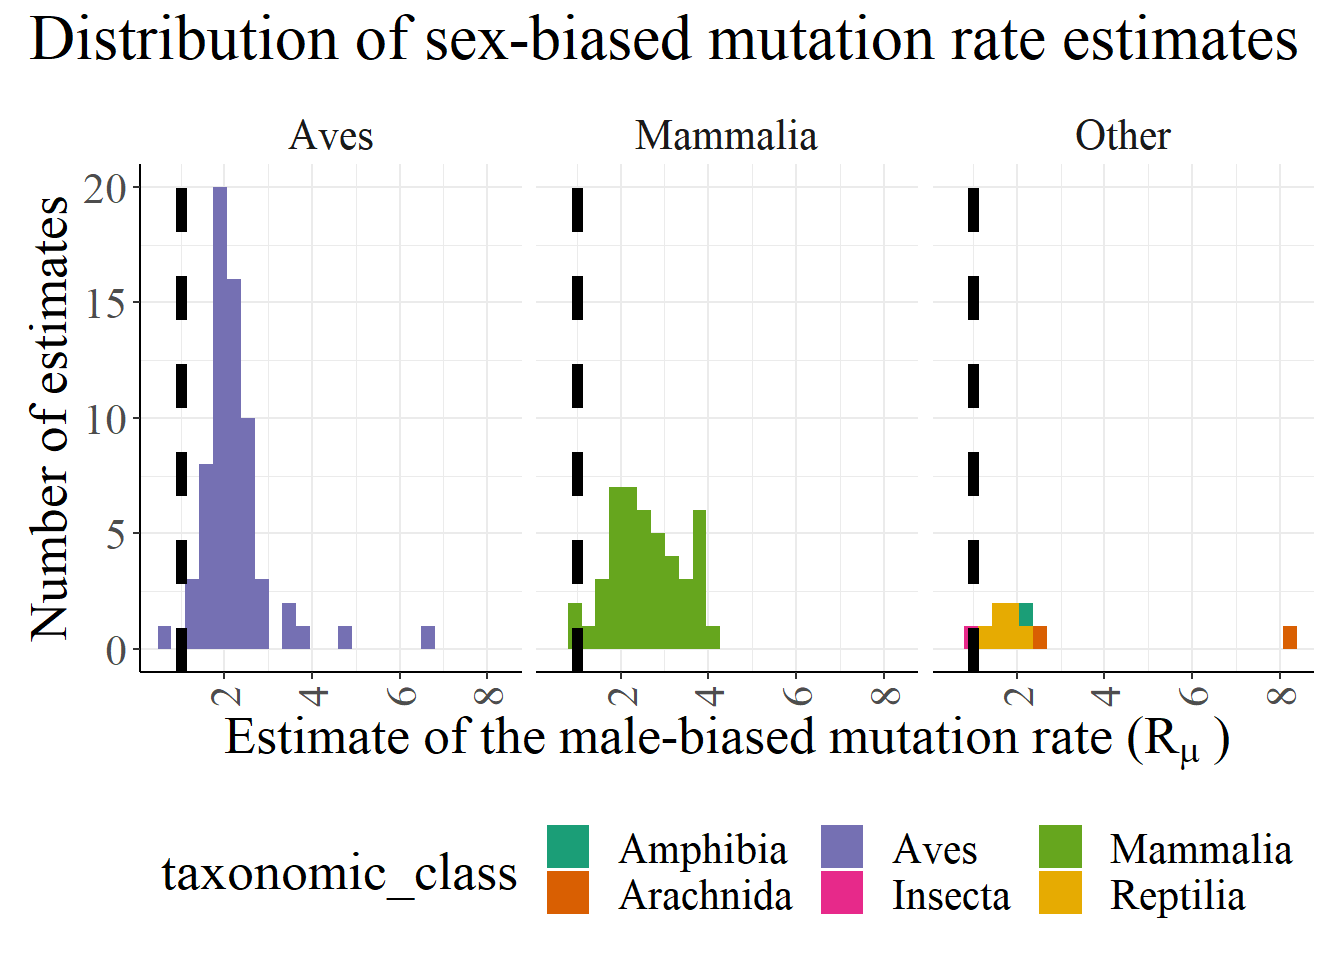
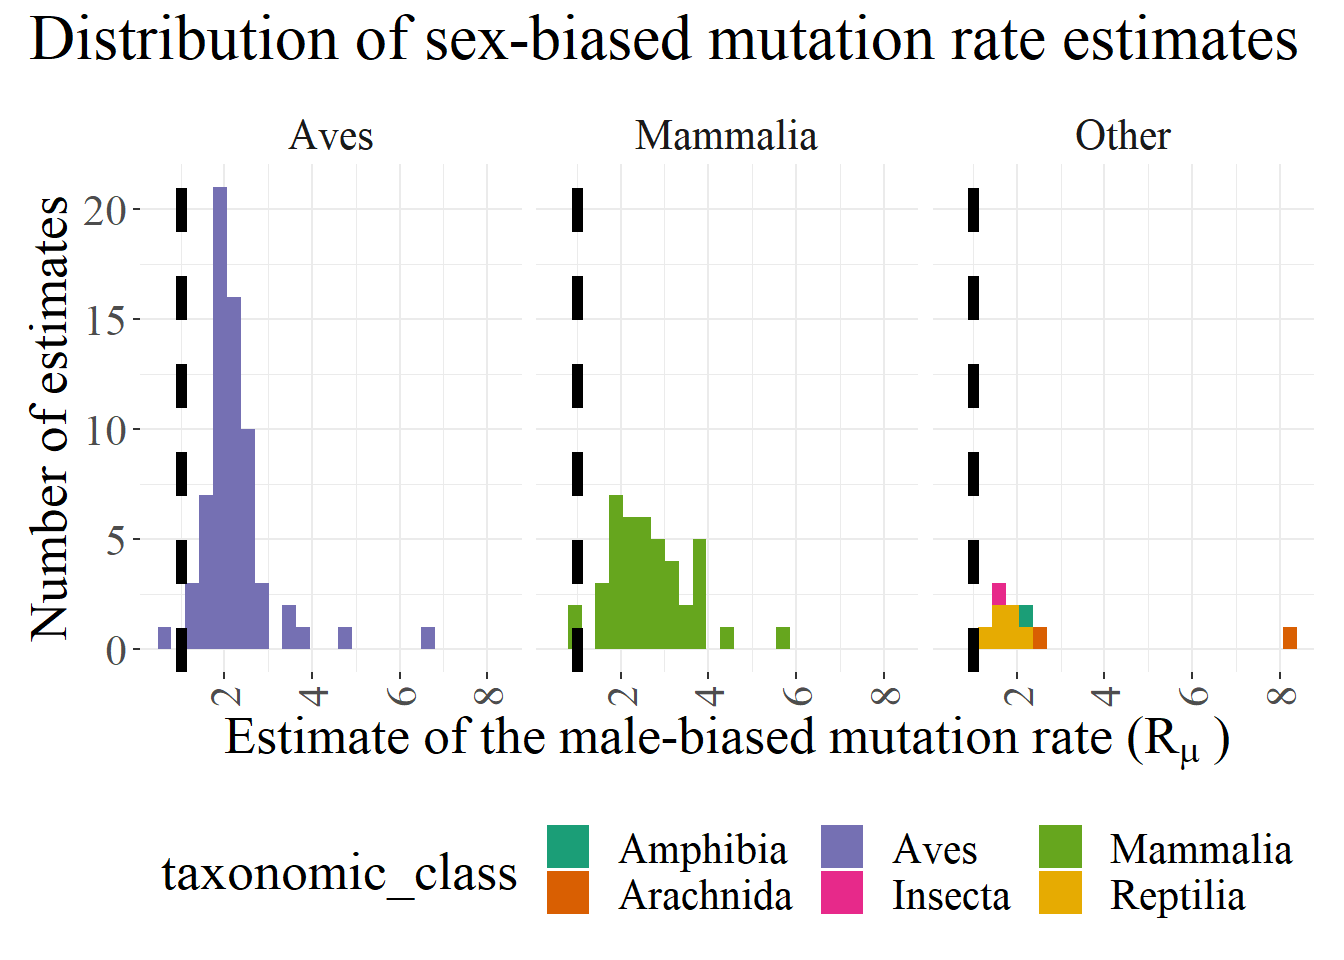
Build site.

diff --git a/docs/figure_1.html b/docs/figure_1.html
@@ -387,7 +387,7 @@ div.tocify {
 <div class="tab-content">
 <div id="summary" class="tab-pane fade in active">
 <p>
-<strong>Last updated:</strong> 2022-02-11
+<strong>Last updated:</strong> 2022-04-21
 </p>
 <p>
 <strong>Checks:</strong> <span class="glyphicon glyphicon-ok text-success" aria-hidden="true"></span> 7 <span class="glyphicon glyphicon-exclamation-sign text-danger" aria-hidden="true"></span> 0
@@ -478,25 +478,26 @@ This reproducible <a href="http://rmarkdown.rstudio.com">R Markdown</a> analysis
 <div class="panel panel-default">
 <div class="panel-heading">
 <p class="panel-title">
-<a data-toggle="collapse" data-parent="#workflowr-checks" href="#strongRepositoryversionstrongahrefhttpsgithubcomIJbeasleyunguardedxjournalclubtree8d4a42818e0faa247db3ff7207489329b5747a1btargetblank8d4a428a"> <span class="glyphicon glyphicon-ok text-success" aria-hidden="true"></span> <strong>Repository version:</strong> <a href="https://github.com/IJbeasley/unguarded_x_journal_club/tree/8d4a42818e0faa247db3ff7207489329b5747a1b" target="_blank">8d4a428</a> </a>
+<a data-toggle="collapse" data-parent="#workflowr-checks" href="#strongRepositoryversionstrongahrefhttpsgithubcomIJbeasleyunguardedxjournalclubtree5abf8c35bb2ae6efa7a2207ef05775777f7af616targetblank5abf8c3a"> <span class="glyphicon glyphicon-ok text-success" aria-hidden="true"></span> <strong>Repository version:</strong> <a href="https://github.com/IJbeasley/unguarded_x_journal_club/tree/5abf8c35bb2ae6efa7a2207ef05775777f7af616" target="_blank">5abf8c3</a> </a>
 </p>
 </div>
[2 lines of base64/hex data omitted]
 <div class="panel-body">
 <p>
 Great! You are using Git for version control. Tracking code development and connecting the code version to the results is critical for reproducibility.
 </p>
 <p>
-The results in this page were generated with repository version <a href="https://github.com/IJbeasley/unguarded_x_journal_club/tree/8d4a42818e0faa247db3ff7207489329b5747a1b" target="_blank">8d4a428</a>. See the <em>Past versions</em> tab to see a history of the changes made to the R Markdown and HTML files.
+The results in this page were generated with repository version <a href="https://github.com/IJbeasley/unguarded_x_journal_club/tree/5abf8c35bb2ae6efa7a2207ef05775777f7af616" target="_blank">5abf8c3</a>. See the <em>Past versions</em> tab to see a history of the changes made to the R Markdown and HTML files.
 </p>
 <p>
 Note that you need to be careful to ensure that all relevant files for the analysis have been committed to Git prior to generating the results (you can use <code>wflow_publish</code> or <code>wflow_git_commit</code>). workflowr only checks the R Markdown file, but you know if there are other scripts or data files that it depends on. Below is the status of the Git repository when the results were generated:
 </p>
 <pre><code>
 Untracked files:
-    Untracked:  Figure_1.pdf
-    Untracked:  SupplementaryFile3_Indonesian_eQTL_nominal.tsv
     Untracked:  figures/
+
+Unstaged changes:
+    Modified:   analysis/summary_sex_bias_mutation.Rmd
 
 </code></pre>
 <p>
@@ -535,6 +536,40 @@ Message
 </tr>
 </thead>
 <tbody>
+<tr>
+<td>
+Rmd
+</td>
+<td>
+<a href="https://github.com/IJbeasley/unguarded_x_journal_club/blob/5abf8c35bb2ae6efa7a2207ef05775777f7af616/analysis/figure_1.Rmd" target="_blank">5abf8c3</a>
+</td>
+<td>
+Isobel Beasley
+</td>
+<td>
+2022-04-21
+</td>
+<td>
+Update Figure 1 for using dataset from data folder rather than google sheets
+</td>
+</tr>
+<tr>
+<td>
+html
+</td>
+<td>
+<a href="https://rawcdn.githack.com/IJbeasley/unguarded_x_journal_club/2907b437eaf68ecfeb99216216124f1c3bbe25db/docs/figure_1.html" target="_blank">2907b43</a>
+</td>
+<td>
+Isobel Beasley
+</td>
+<td>
+2022-02-11
+</td>
+<td>
+Build site.
+</td>
+</tr>
 <tr>
 <td>
 Rmd
@@ -607,23 +642,20 @@ font_import()</code></pre>
 Continue? [y/n] </code></pre>
 <pre class="r"><code>loadfonts(device=&quot;win&quot;)  
 
-# only look at public sheets - so no authentication is needed
-googlesheets4::gs4_deauth()
-
 # read in sex bias mutation data.frame
-sex_bias_mut_df = googlesheets4::read_sheet(&quot;https://docs.google.com/spreadsheets/d/10ZVgeGlDpEnPG-4zLLrSBQjF7p2_9hzzIMPuIRuvogg/edit#gid=537547888&quot;, range = &quot;Sex-bias estimates&quot;)
+sex_bias_mut_df = readxl::read_excel(&quot;data/Sex_bias_mutation_rate.xlsx&quot;, sheet = &quot;Sex-bias estimates&quot;)
 
 # what does the sex bias in mutation rate estimate look like: 
 head(sex_bias_mut_df) %&gt;% reactable()</code></pre>
 <div id="htmlwidget-0bc58612b86b389075fb" class="reactable html-widget" style="width:auto;height:auto;"></div>
-<script type="application/json" data-for="htmlwidget-0bc58612b86b389075fb">{"x":{"tag":{"name":"Reactable","attribs":{"data":{"authors":["Törmä,  Burny, and Schlötterer","Künstner et al.","Künstner et al.","Wilson Sayres et al.","Manuel, Wu and Przeworski","Chang et al."],"year":[2020,2010,2010,2011,2022,1994],"taxonomic_class":["Insecta","Aves","Aves","Mammalia","Mammalia","Mammalia"],"animal_name":["Fruit fly","Anna's hummingbird","Barbary dove","Hedgehog","Cat","Rodents (Mouse;Rat)"],"scientific_name":["Drosophila Melanogaster","Calypte anna","Streptopelia risoria","Erinaceus europaeus","Felis catus","Mus musculus;Rattus norvegicus"],"alpha_point_estimate":[-0.48,0.0283,0.5,0.97,0.97667172,1],"alpha_estimate_lower":[-0.53,"NA","NA",0.62,0.757043867,1.8],"alpha_estimate_upper":[-0.44,"NA","NA",1.41,1.218085898,3.2],"method_used_to_calculate_alpha":["Evolutionary method (Miyata et al. 1987; comparing X/Autosomes)","Evolutionary method (Miyata et al. 1987; comparing Z/Autosomes)","Evolutionary method (Miyata et al. 1987; comparing Z/Autosomes)","Evolutionary method (Miyata et al. 1987; comparing X/Autosomes)","Evolutionary method (Miyata et al. 1987; comparing X/Autosomes)","Evolutionary method (Miyata et al. 1987, comparing X/Y)"],"upper_lower_meaning":["Lower and upper estimates are the 95% confidence interval for alpha","No confidence interval provided in article","No confidence interval provided in article","Lower and upper estimates are the 95% confidence interval for alpha","Lower and upper estimates are the 95% confidence interval for alpha","Lower and upper estimates are the 95% confidence interval for alpha"],"loci_type_for_estimate":[null,"Synonymous site","Synonymous site","Non-coding regions","Non-coding regions","Intron"],"number_of_loci_for_estimate":["Whole genome","Whole genome","Whole genome","Whole genome","Whole genome excluding pseudo-autosomal regions and repeative regions","Single gene pair (1 intron)"],"mutation_type":["Indel",null,null,null,"Nucleotide substitution","Nucleotide substitutions"],"other_notes":["Measured in mismatch-repair deficient D.melanogaster, impossible ratio as X/A for indels is >1.",null,null,null,null,"Gene pair: ZFY/ZFX"]},"columns":[{"accessor":"authors","name":"authors","type":"character"},{"accessor":"year","name":"year","type":"numeric"},{"accessor":"taxonomic_class","name":"taxonomic_class","type":"character"},{"accessor":"animal_name","name":"animal_name","type":"character"},{"accessor":"scientific_name","name":"scientific_name","type":"character"},{"accessor":"alpha_point_estimate","name":"alpha_point_estimate","type":"numeric"},{"accessor":"alpha_estimate_lower","name":"alpha_estimate_lower","type":"numeric"},{"accessor":"alpha_estimate_upper","name":"alpha_estimate_upper","type":"numeric"},{"accessor":"method_used_to_calculate_alpha","name":"method_used_to_calculate_alpha","type":"character"},{"accessor":"upper_lower_meaning","name":"upper_lower_meaning","type":"character"},{"accessor":"loci_type_for_estimate","name":"loci_type_for_estimate","type":"character"},{"accessor":"number_of_loci_for_estimate","name":"number_of_loci_for_estimate","type":"character"},{"accessor":"mutation_type","name":"mutation_type","type":"character"},{"accessor":"other_notes","name":"other_notes","type":"character"}],"defaultPageSize":10,"paginationType":"numbers","showPageInfo":true,"minRows":1,"dataKey":"377f378cfc4dfebb6152e768ba07592c","key":"377f378cfc4dfebb6152e768ba07592c"},"children":[]},"class":"reactR_markup"},"evals":[],"jsHooks":[]}</script>
+<script type="application/json" data-for="htmlwidget-0bc58612b86b389075fb">{"x":{"tag":{"name":"Reactable","attribs":{"data":{"authors":["Shimmin, Chang and Li","Chang et al.","Chang and Li","Chang, Hewett-Emmett and Li","Ellegren and Fridolfsson","Huang et al."],"year":[1993,1994,1995,1996,1997,1997],"taxonomic_class":["Mammalia","Mammalia","Mammalia","Mammalia","Aves","Mammalia"],"animal_name":["Primates (Human, Orangutan, Baboons, Squirrel Monkey)","Rodents (Mouse;Rat)","Rodents (Mouse;Rat)","Primates (Human, Orangutan, Baboons, Squirrel Monkey)","Birds (Collared flycatcher;Yellowhammer)","Primates (Human, Orangutan, Squirrel Monkey)"],"scientific_name":["Homo sapiens;Pongo pygmaeus;Papio\ncynocephalus;Saimiri boliviensis","Mus musculus;Rattus norvegicus","Mus musculus;Rattus norvegicus","Homo sapiens;Pongo pygmaeus;Papio\ncynocephalus;Saimiri boliviensis","Ficedula albicollis;Emberiza citrinella","Homo sapiens;Pongo pygmaeus;Saimiri boliviensis"],"alpha_point_estimate":[6.26,1,2,4.2,3.9,5.14],"alpha_estimate_lower":[2.63,1.8,1,2.2,1.12,2.42],"alpha_estimate_upper":[32.4,3.2,3.9,10,6.68,16.6],"method_used_to_calculate_alpha":["Evolutionary method (Miyata et al. 1987, comparing X/Y)","Evolutionary method (Miyata et al. 1987, comparing X/Y)","Evolutionary method (Miyata et al. 1987, comparing X/Y)","Evolutionary method (Miyata et al. 1987, comparing X/Y)","Evolutionary method (Miyata et al. 1987; comparing Z/W)","Evolutionary method (Miyata et al. 1987, comparing X/Y)"],"upper_lower_meaning":["Lower and upper estimates are the 95% confidence interval for alpha","Lower and upper estimates are the 95% confidence interval for alpha","Lower and upper estimates are the 95% confidence interval for alpha","Lower and upper estimates are the 95% confidence interval for alpha","Lower and upper estimates are the 95% confidence interval for alpha","Lower and upper estimates are the 95% confidence interval for alpha"],"loci_type_for_estimate":["Intron","Intron","Intron","Intron","Exon","Intron"],"number_of_loci_for_estimate":["Single gene pair","Single gene pair (1 intron)","Single gene pair (3 intron)","Single gene pair","Single gene pair","Single gene pair"],"mutation_type":["Gene pair: ZFY/ZFX","Gene pair: ZFY/ZFX","Gene pair: Ube 1X/Ube 1Y","Gene pair: SMCY/SMCX","Gene pair: CHDZ / CHDW","Gene pair: AMGX/AMGY"],"other_notes":[null,null,"Used both non-synmous and synomous substitions, from the article: \"a similar estimate is obtained using synonymous substitutions (~ = 2.37), although the 95% confidence interval is larger (-0.21 to 5.10)\"",null,null,null]},"columns":[{"accessor":"authors","name":"authors","type":"character"},{"accessor":"year","name":"year","type":"numeric"},{"accessor":"taxonomic_class","name":"taxonomic_class","type":"character"},{"accessor":"animal_name","name":"animal_name","type":"character"},{"accessor":"scientific_name","name":"scientific_name","type":"character"},{"accessor":"alpha_point_estimate","name":"alpha_point_estimate","type":"numeric"},{"accessor":"alpha_estimate_lower","name":"alpha_estimate_lower","type":"numeric"},{"accessor":"alpha_estimate_upper","name":"alpha_estimate_upper","type":"numeric"},{"accessor":"method_used_to_calculate_alpha","name":"method_used_to_calculate_alpha","type":"character"},{"accessor":"upper_lower_meaning","name":"upper_lower_meaning","type":"character"},{"accessor":"loci_type_for_estimate","name":"loci_type_for_estimate","type":"character"},{"accessor":"number_of_loci_for_estimate","name":"number_of_loci_for_estimate","type":"character"},{"accessor":"mutation_type","name":"mutation_type","type":"character"},{"accessor":"other_notes","name":"other_notes","type":"character"}],"defaultPageSize":10,"paginationType":"numbers","showPageInfo":true,"minRows":1,"dataKey":"9def39596755b1293e3c6eb03f34c254","key":"9def39596755b1293e3c6eb03f34c254"},"children":[]},"class":"reactR_markup"},"evals":[],"jsHooks":[]}</script>
 <pre class="r"><code># Set up custom theme for ggplots
 custom_theme &lt;-
   list(
     theme_bw() +
       theme(
         panel.border = element_blank(),
-        axis.line = element_line(),
+        #axis.line = element_line(),
         text = element_text(family=&quot;serif&quot;, size=20),
         legend.position = &quot;bottom&quot;,
         strip.background = element_blank(),
@@ -631,16 +663,23 @@ custom_theme &lt;-
       )
   )</code></pre>
 </div>
-<div id="figure-1-for-the-unguarded-x-paper" class="section level1">
-<h1>Figure 1 for the unguarded X paper</h1>
-<div id="suggested-steps-1122022" class="section level2">
-<h2>Suggested steps (11/2/2022)</h2>
+<div id="figure-1-for-the-unguarded-x-paper" class="section level2">
+<h2>Figure 1 for the unguarded X paper</h2>
+<div id="suggested-steps-1122022" class="section level3">
+<h3>Suggested steps (11/2/2022)</h3>
+</div>
 <div id="data-preparation" class="section level3">
 <h3>Data preparation</h3>
 <pre class="r"><code># Filter out that wildly high / unrealistic estimate for human male-bias from Wilson Sayres et al. 2011
 
 filtered_sex_bias_mut_df = sex_bias_mut_df %&gt;% 
                            filter(alpha_point_estimate&lt;20)
+
+# Filter out that negative value - for the male bias - 
+# from Drosophilla using Indels Törmä,  Burny, and Schlöttere et al. 2020
+
+filtered_sex_bias_mut_df = sex_bias_mut_df %&gt;% 
+                           filter(alpha_point_estimate&gt;0)
 
 
 # For the purposes of the figure - only include estimates for a single species at a time: 
@@ -683,56 +722,37 @@ filtered_sex_bias_mut_df = filtered_sex_bias_mut_df  %&gt;%
   theme = theme(text = element_text(family=&quot;serif&quot;, size=20))
 )</code></pre>
 <p><img src="figure/figure_1.Rmd/plot_figure_1-1.png" width="672" style="display: block; margin: auto;" /></p>
-<pre class="r"><code>ggsave(&quot;figures/figure_1.png&quot;, width = 180, height = 120, units = &quot;mm&quot;)</code></pre>
+<div id="number-of-displayed-estimates-per-group" class="section level3">
+<h3>Number of displayed estimates per group</h3>
+<pre class="r"><code>filtered_sex_bias_mut_df  %&gt;% 
+  group_by(taxonomic_class) %&gt;% 
+  summarise(n = n())</code></pre>
+<pre><code># A tibble: 6 x 2
+  taxonomic_class     n
+  &lt;chr&gt;           &lt;int&gt;
+1 Amphibia            1
+2 Arachnida           2
+3 Aves               66
+4 Insecta             1
+5 Mammalia           42
+6 Reptilia            6</code></pre>
+<pre class="r"><code>filtered_sex_bias_mut_df  %&gt;% 
+  mutate(taxa_group = ifelse(taxonomic_class == &quot;Aves&quot; | taxonomic_class == &quot;Mammalia&quot;,
+                            taxonomic_class, &quot;Other&quot;)) %&gt;% 
+  group_by(taxa_group) %&gt;% 
+  summarise(n = n())</code></pre>
+<pre><code># A tibble: 3 x 2
+  taxa_group     n
+  &lt;chr&gt;      &lt;int&gt;
+1 Aves          66
+2 Mammalia      42
+3 Other         10</code></pre>
 </div>
-<div id="old-version-of-the-figure-for-the-paper-4022022" class="section level2">
-<h2>Old version of the figure for the paper (4/02/2022)</h2>
-<pre class="r"><code>## By Taxonomic Class
+<div id="saving-figures" class="section level3">
+<h3>Saving figures</h3>
+<pre class="r"><code>ggsave(&quot;figures/figure_1.png&quot;, width = 180, height = 120, units = &quot;mm&quot;)
 
-df= sex_bias_mut_df %&gt;% 
-  #filter(alpha_point_estimate&lt;20) %&gt;% 
-  ggplot(aes(x=alpha_point_estimate)) + 
-  geom_histogram(bins = 25) + 
-  labs(title = &quot;Distribution of sex-biased mutation rate estimates&quot;,
-        x = &quot;Point estimate of the male-biased mutation rate (alpha)&quot;,
-       y= &quot;Number of estimates&quot;) + 
-  custom_theme + 
-  geom_vline(xintercept = 1, col = &quot;red&quot;, linetype = 2, size = 2) + 
-  facet_wrap(~taxonomic_class)
-
-n_by_taxa = sex_bias_mut_df %&gt;% 
-            group_by(taxonomic_class) %&gt;% 
-            summarise(n = n()) 
-
-
-df_2 = sex_bias_mut_df %&gt;%   
-  select(authors,year,scientific_name) %&gt;% 
-  distinct() %&gt;% 
-  ggplot(aes(x=year)) + 
-  geom_histogram() + 
-  custom_theme  + 
-  labs(x = &quot;Year published*&quot;,
-       y = &quot;Number of estimates&quot;,
-       title = &quot;How many unique estimates per year?&quot;)
-
-
-df_3 = sex_bias_mut_df %&gt;%   
-  select(authors,year) %&gt;% 
-  distinct() %&gt;% 
-  ggplot(aes(x=year)) + 
-  geom_histogram() + 
-  custom_theme  + 
-  labs(x = &quot;Year published*&quot;,
-       y = &quot;Number of studies&quot;,
-       title = &quot;What year were our collated studies published?&quot;)
-
-
-library(patchwork)
-
-(df) / (df_2 + df_3)</code></pre>
-<pre><code>`stat_bin()` using `bins = 30`. Pick better value with `binwidth`.
-`stat_bin()` using `bins = 30`. Pick better value with `binwidth`.</code></pre>
-<p><img src="figure/figure_1.Rmd/old_version_of_figure_for_the_paper-1.png" width="1920" style="display: block; margin: auto;" /></p>
+ggsave(&quot;figures/figure_2.pdf&quot;, width = 180, height = 120, units = &quot;mm&quot;)</code></pre>
 <br>
 <p>
 <button type="button" class="btn btn-default btn-workflowr btn-workflowr-sessioninfo" data-toggle="collapse" data-target="#workflowr-sessioninfo" style="display: block;">
@@ -760,28 +780,21 @@ other attached packages:
 [5] reactable_0.2.3    dplyr_1.0.6        ggplot2_3.3.5      workflowr_1.6.2   
 
 loaded via a namespace (and not attached):
- [1] Rcpp_1.0.6          assertthat_0.2.1    rprojroot_2.0.2    
- [4] digest_0.6.27       utf8_1.2.1          R6_2.5.0           
- [7] cellranger_1.1.0    reactR_0.4.4        evaluate_0.14      
-[10] httr_1.4.2          highr_0.9           pillar_1.6.1       
-[13] rlang_0.4.11        googlesheets4_1.0.0 curl_4.3.1         
-[16] rstudioapi_0.13     extrafontdb_1.0     whisker_0.4        
-[19] jquerylib_0.1.4     rmarkdown_2.9       labeling_0.4.2     
-[22] googledrive_2.0.0   stringr_1.4.0       htmlwidgets_1.5.3  
-[25] munsell_0.5.0       compiler_4.1.0      httpuv_1.6.1       
-[28] xfun_0.24           pkgconfig_2.0.3     htmltools_0.5.1.1  
-[31] tidyselect_1.1.1    tibble_3.1.2        fansi_0.4.2        
-[34] crayon_1.4.1        withr_2.4.2         later_1.2.0        
-[37] grid_4.1.0          jsonlite_1.7.2      Rttf2pt1_1.3.10    
-[40] gtable_0.3.0        lifecycle_1.0.0     DBI_1.1.1          
-[43] git2r_0.29.0        magrittr_2.0.1      scales_1.1.1       
-[46] cli_3.1.0           stringi_1.6.1       farver_2.1.0       
-[49] fs_1.5.0            promises_1.2.0.1    bslib_0.2.5.1      
-[52] ellipsis_0.3.2      generics_0.1.0      vctrs_0.3.8        
-[55] rematch2_2.1.2      tools_4.1.0         glue_1.4.2         
-[58] purrr_0.3.4         crosstalk_1.1.1     yaml_2.2.1         
-[61] colorspace_2.0-1    gargle_1.2.0        knitr_1.33         
-[64] sass_0.4.0         </code></pre>
+ [1] tidyselect_1.1.1  xfun_0.24         bslib_0.2.5.1     purrr_0.3.4      
+ [5] colorspace_2.0-1  vctrs_0.3.8       generics_0.1.0    htmltools_0.5.1.1
+ [9] yaml_2.2.1        utf8_1.2.1        rlang_0.4.11      jquerylib_0.1.4  
+[13] later_1.2.0       pillar_1.6.1      reactR_0.4.4      glue_1.4.2       
+[17] withr_2.4.2       DBI_1.1.1         readxl_1.3.1      lifecycle_1.0.0  
+[21] stringr_1.4.0     munsell_0.5.0     gtable_0.3.0      cellranger_1.1.0 
+[25] htmlwidgets_1.5.3 evaluate_0.14     labeling_0.4.2    knitr_1.33       
+[29] crosstalk_1.1.1   httpuv_1.6.1      fansi_0.4.2       highr_0.9        
+[33] Rttf2pt1_1.3.10   Rcpp_1.0.6        promises_1.2.0.1  scales_1.1.1     
+[37] jsonlite_1.7.2    farver_2.1.0      fs_1.5.0          digest_0.6.27    
+[41] stringi_1.6.1     grid_4.1.0        rprojroot_2.0.2   cli_3.1.0        
+[45] tools_4.1.0       magrittr_2.0.1    sass_0.4.0        tibble_3.1.2     
+[49] crayon_1.4.1      whisker_0.4       extrafontdb_1.0   pkgconfig_2.0.3  
+[53] ellipsis_0.3.2    rstudioapi_0.13   assertthat_0.2.1  rmarkdown_2.9    
+[57] R6_2.5.0          git2r_0.29.0      compiler_4.1.0   </code></pre>
 </div>
 </div>
 </div>
